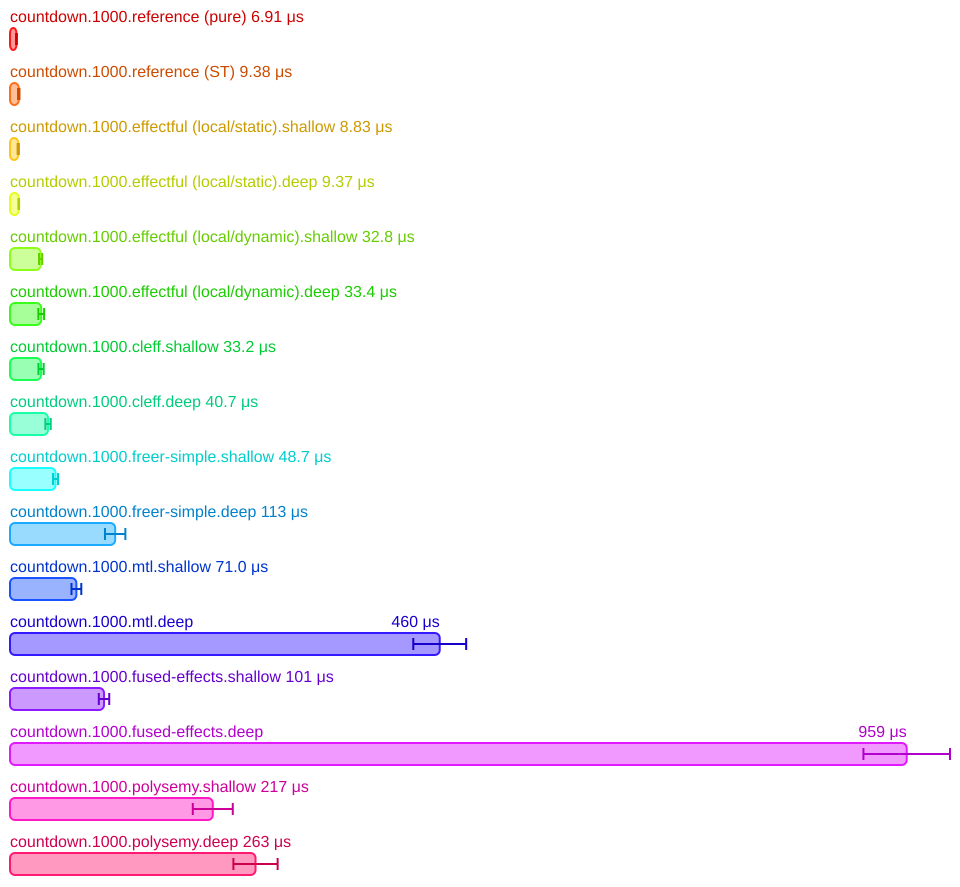
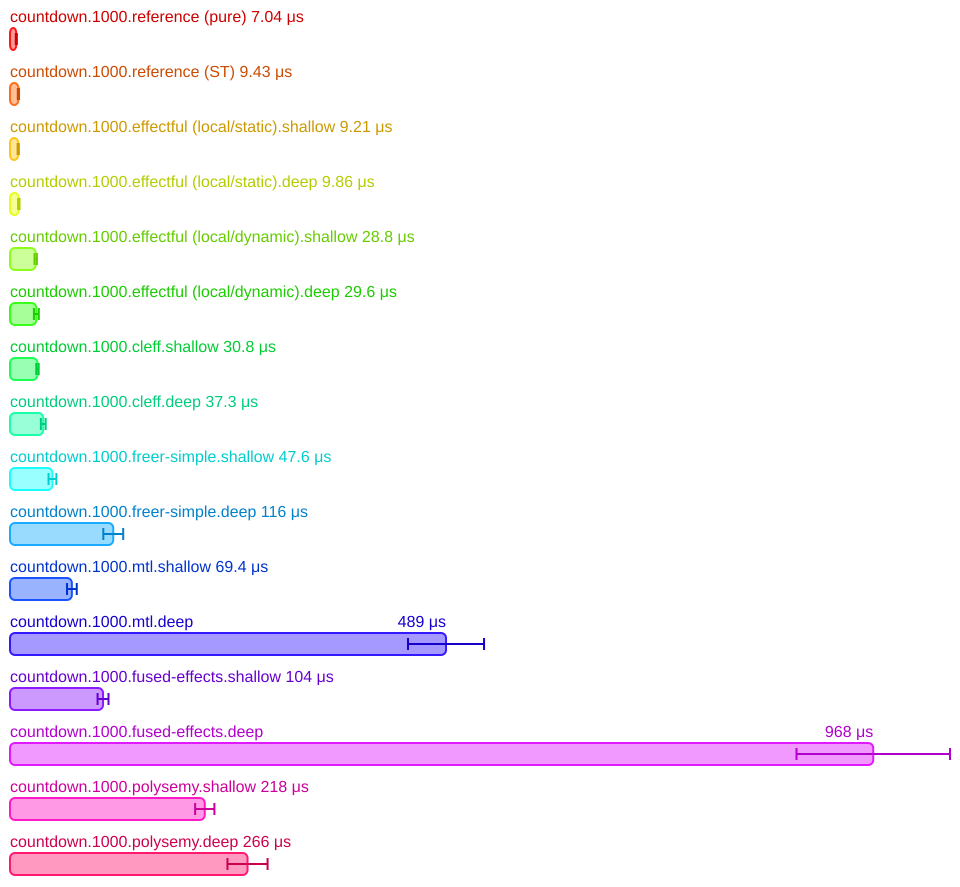
Update benchmarks and describe the results

diff --git a/benchmarks/README.md b/benchmarks/README.md
@@ -1,0 +1,95 @@
+# Benchmarks
+
+## Introduction
+
+The benchmark suite of `effectful` compares performance of the most popular
+extensible effects libraries in several scenarios. It implements two benchmarks:
+
+- **countdown** - a microbenchmark that effectively measures performance of
+  monadic binds and the effect dispatch.
+
+- **filesize** - a more down to earth benchmark that does various things,
+  including I/O.
+   
+Each benchmark has two flavours that affect the amount of effects available in
+the context:
+
+- **shallow** - only effects necessary for the benchmark.
+
+- **deep** - necessary effects + 5 redundant effects put into the context before
+  and after the relevant ones (10 in total). This simulates a typical scenario
+  in which the code uses only a portion of the total amount of effects available
+  to the application.
+
+Moreover, the benchmarked code was annotated with `NOINLINE` pragmas to prevent
+GHC from inlining it and/or specializing away type class constraints related to
+effects. This is crucial in order to get realistic results, as for any
+non-trivial, multi-module application the compiler will not be able to do this
+as that would essentially mean performing whole program specialization.
+
+The code was compiled with GHC 9.0.2 and run on a Ryzen 9 5950x.
+
+## Results
+
+### Countdown
+
+<img src="https://raw.githubusercontent.com/haskell-effectful/effectful/master/benchmarks/bench_countdown_1000.png">
+
+Analysis:
+
+1. `effectful` takes the lead. Its static dispatch is on par with the reference
+   implementation that uses the `ST` monad, so it offers no additional
+   overhead. Its dynamic dispatch is also the fastest.
+
+2. `cleff` uses very similar implementation techniques as `effectful` and is
+   only a bit behind with the shallow version, but gets further away with the
+   deep one. This is because it uses `IntMap` for the effect dispatch
+   underneath, so it's not quite constant size in terms of the effect stack. For
+   comparison, `effectful` uses arrays.
+
+3. `freer-simple` does surprisingly well for a solution that's based on free
+   monads.
+   
+4. `mtl` comes next and unfortunately here's when the conventional wisdom stating
+   that it is fast crumbles. The deep version is **50 times** slower than the
+   reference implementation!
+   
+   This is a direct consequence of how type classes are compiled. To be more
+   precise, during compilation type class constraints are translated by the
+   compiler to regular arguments. These arguments are class dictionaries,
+   i.e. data types containing all functions that the type class contains.
+   
+   Now, because usage of `mtl` style effects requires the monad to be
+   polymorphic, such functions at runtime are passed a dictionary of `Monad`
+   specific methods and have to call them. **In particular, this applies to the
+   monadic bind**. That's the crux of a problem - bind is called in between
+   every monadic operation, so making it a function call has a disastrous effect
+   on performance.
+   
+   Why is the result for the deep stack so much worse that for the shallow one
+   though? It's because in reality, each call to bind performs *O(n)* function
+   calls, where *n* is the number of monad transformers on the stack. That's
+   because the implementation of bind for every monad transformer refers to the
+   bind of a monad it transforms.
+   
+   Compare that to `effectful`, where monadic binds are known function calls and
+   can be eliminated by the compiler. What is more, the only piece of data
+   passed via class constraints are dictionaries of `:>`, each represented by a
+   single `Int` pointing at the place in the stack where the relevant effect is
+   located.
+
+5. `fused-effects` exhibits similar behavior as `mtl`. This comes with no
+   surprise as it uses the same implementation techniques. It augments them with
+   additional machinery for convenience, which seems to add even more overhead
+   though.
+
+6. `polysemy` is based on free monads just as `freer-simple` and performs
+   similarly, though with a much higher initial overhead.
+
+### Filesize
+
+<img src="https://raw.githubusercontent.com/haskell-effectful/effectful/master/benchmarks/bench_filesize_1000.png">
+
+The results are similar to the ones of the *countdown* benchmark. It's worth
+noting though that introduction of other effects and I/O makes the difference in
+performance between libraries not nearly as pronounced.

diff --git a/README.md b/README.md
@@ -15,9 +15,8 @@ with the existing Haskell ecosystem.
 
 Main features:
 
-1. Very fast (benchmark results with GHC 9.0.2:
-   [countdown](https://raw.githubusercontent.com/haskell-effectful/effectful/master/benchmarks/bench_countdown_1000.png),
-   [filesize](https://raw.githubusercontent.com/haskell-effectful/effectful/master/benchmarks/bench_filesize_1000.png)).
+1. Very fast
+   ([benchmarks](https://github.com/haskell-effectful/effectful/tree/master/benchmarks)).
 
 2. Easy to use API (no boilerplate code and dealing with arcane types).
 
